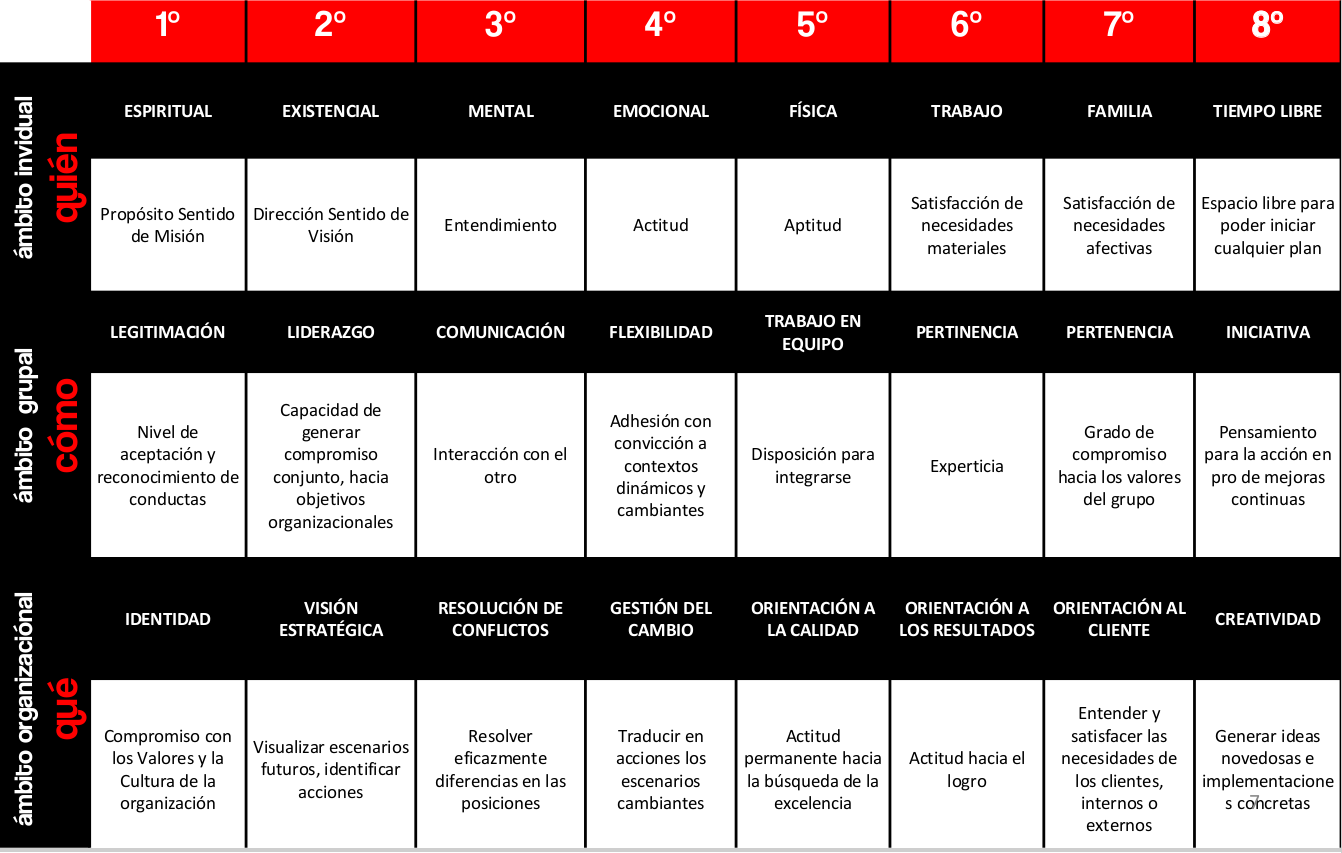
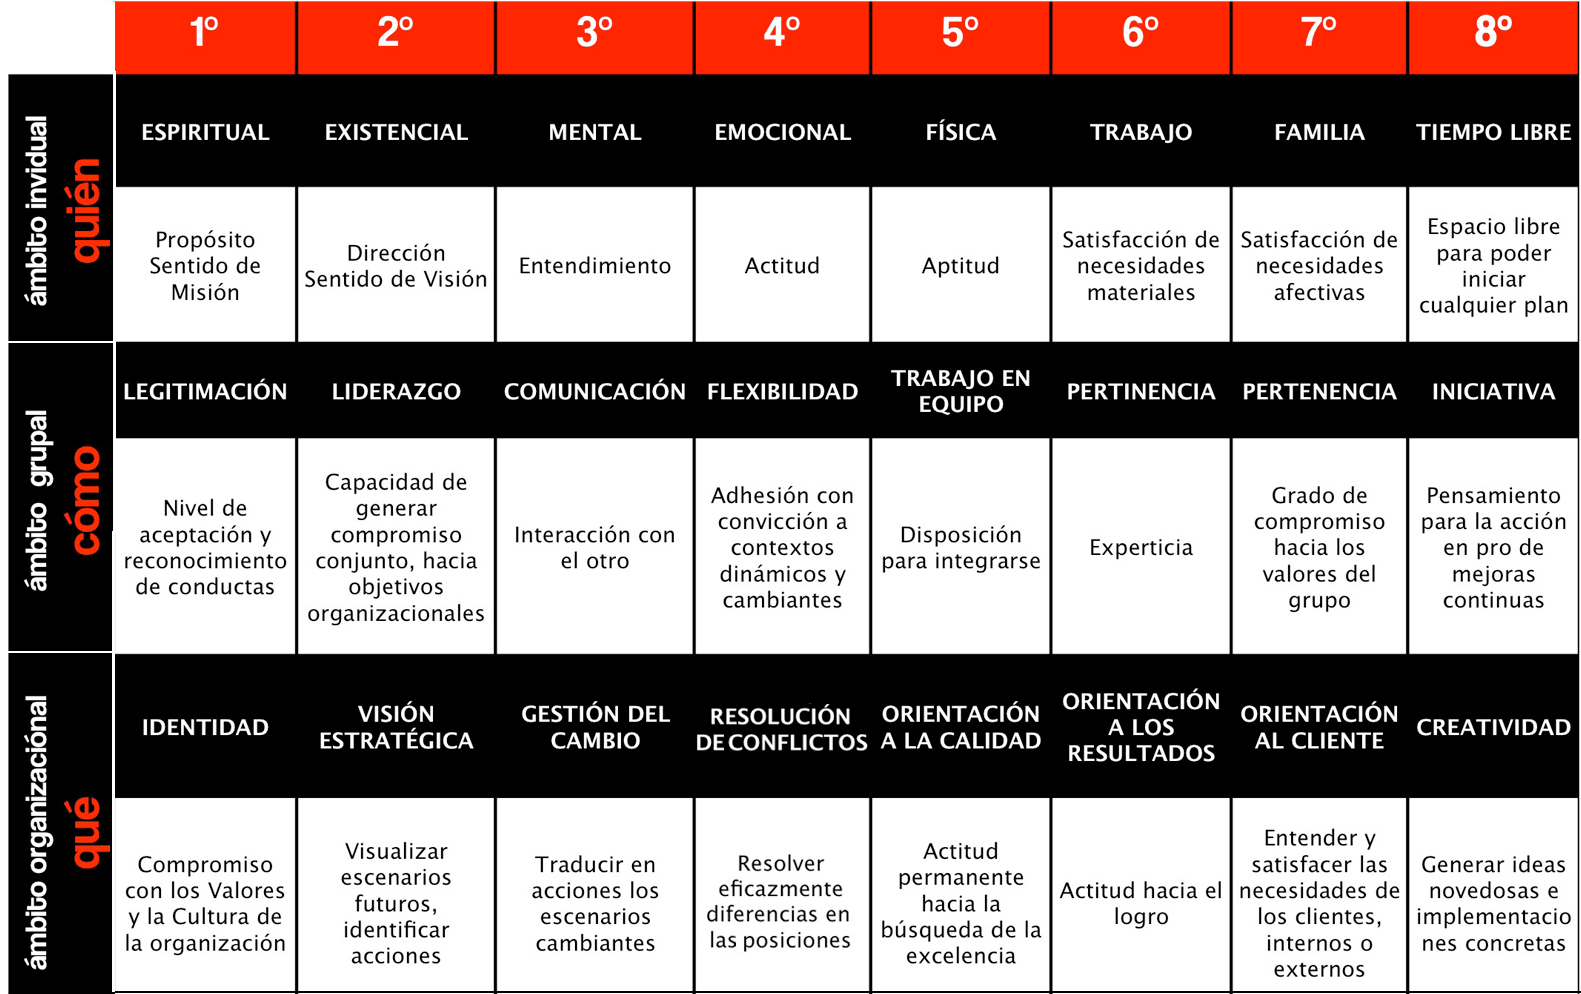
Swap org competences

diff --git a/migrations/m170818_033118_add_swap_competences.php b/migrations/m170818_033118_add_swap_competences.php
@@ -1,0 +1,84 @@
+<?php
+
+use yii\db\Migration;
+
+class m170818_033118_add_swap_competences extends Migration
+{
+
+    public function safeUp()
+    {
+        $this->swap_answers();
+        $this->swap_questions();
+    }
+
+    public function safeDown()
+    {
+        $this->swap_questions();
+        $this->swap_answers();
+    }
+
+    private function swap_answers()
+    {
+        $org_wheels = $this->db
+                ->createCommand('SELECT `id` FROM `wheel` WHERE `type` = 2')
+                ->queryColumn('id');
+
+        $this->update('wheel_answer', ['answer_order' => new yii\db\Expression('answer_order + 8')], [
+            'dimension' => 4,
+            'wheel_id' => $org_wheels,
+        ]);
+
+        $this->update('wheel_answer', ['answer_order' => new yii\db\Expression('answer_order - 8')], [
+            'dimension' => 5,
+            'wheel_id' => $org_wheels,
+        ]);
+
+        // Swap dimensions
+
+        $this->update('wheel_answer', ['dimension' => 111], [
+            'dimension' => 4,
+            'wheel_id' => $org_wheels,
+        ]);
+
+        $this->update('wheel_answer', ['dimension' => 4], [
+            'dimension' => 5,
+            'wheel_id' => $org_wheels,
+        ]);
+
+        $this->update('wheel_answer', ['dimension' => 5], [
+            'dimension' => 111,
+            'wheel_id' => $org_wheels,
+        ]);
+    }
+
+    private function swap_questions()
+    {
+        $this->update('wheel_question', ['order' => new yii\db\Expression('`order` + 8')], [
+            'dimension' => 4,
+            'type' => 2,
+        ]);
+
+        $this->update('wheel_question', ['order' => new yii\db\Expression('`order` - 8')], [
+            'dimension' => 5,
+            'type' => 2,
+        ]);
+
+        // Swap dimensions
+
+        $this->update('wheel_question', ['dimension' => 111], [
+            'dimension' => 4,
+            'type' => 2,
+        ]);
+
+        $this->update('wheel_question', ['dimension' => 4], [
+            'dimension' => 5,
+            'type' => 2,
+        ]);
+
+        $this->update('wheel_question', ['dimension' => 5], [
+            'dimension' => 111,
+            'type' => 2,
+        ]);
+    }
+
+}

diff --git a/models/WheelQuestion.php b/models/WheelQuestion.php
@@ -99,8 +99,8 @@ class WheelQuestion extends ActiveRecord
                 Yii::t('wheel', 'Results guidance'),
                 Yii::t('wheel', 'Client guidance'),
                 Yii::t('wheel', 'Quality guidance'),
-                Yii::t('wheel', 'Change Management'),
                 Yii::t('wheel', 'Conflict resolution'),
+                Yii::t('wheel', 'Change Management'),
                 Yii::t('wheel', 'Strategic vision'),
                 Yii::t('wheel', 'Identity'),
             ];
